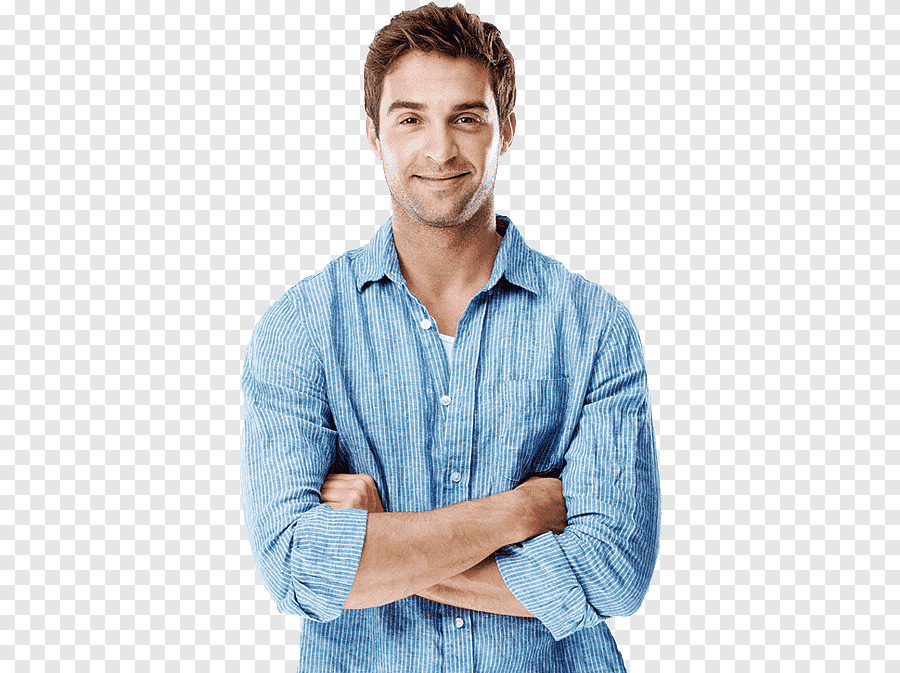
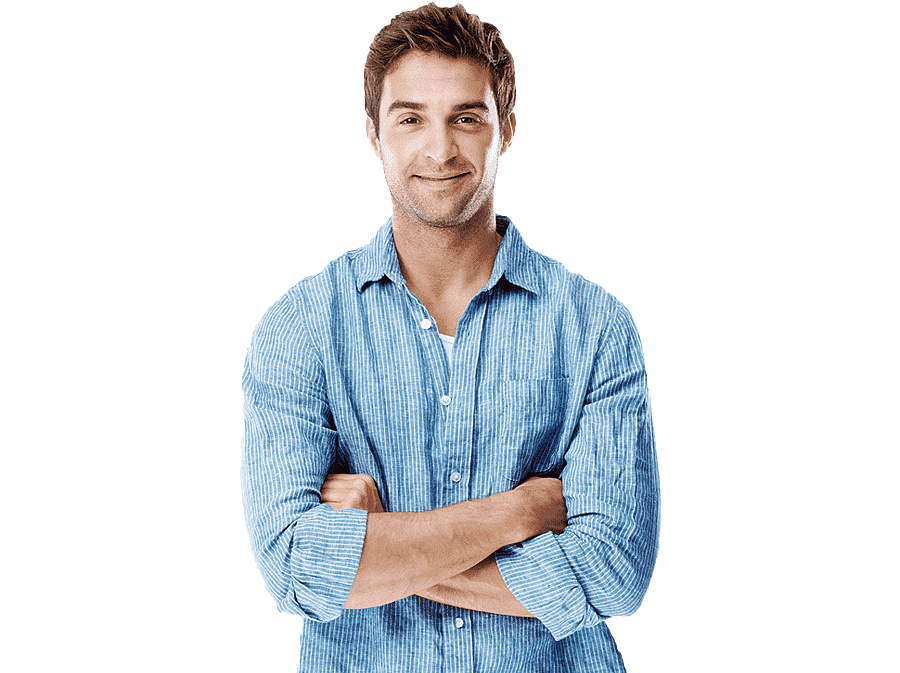
12

diff --git a/styles/style.css b/styles/style.css
@@ -61,7 +61,7 @@ figure{
 
 .imggl {
 
-    background-image: url('../img/background1.png');
+    background-image: url('../img/background1.jpg');
     background-size: 80%;
     background-repeat: no-repeat;
     position: relative;
